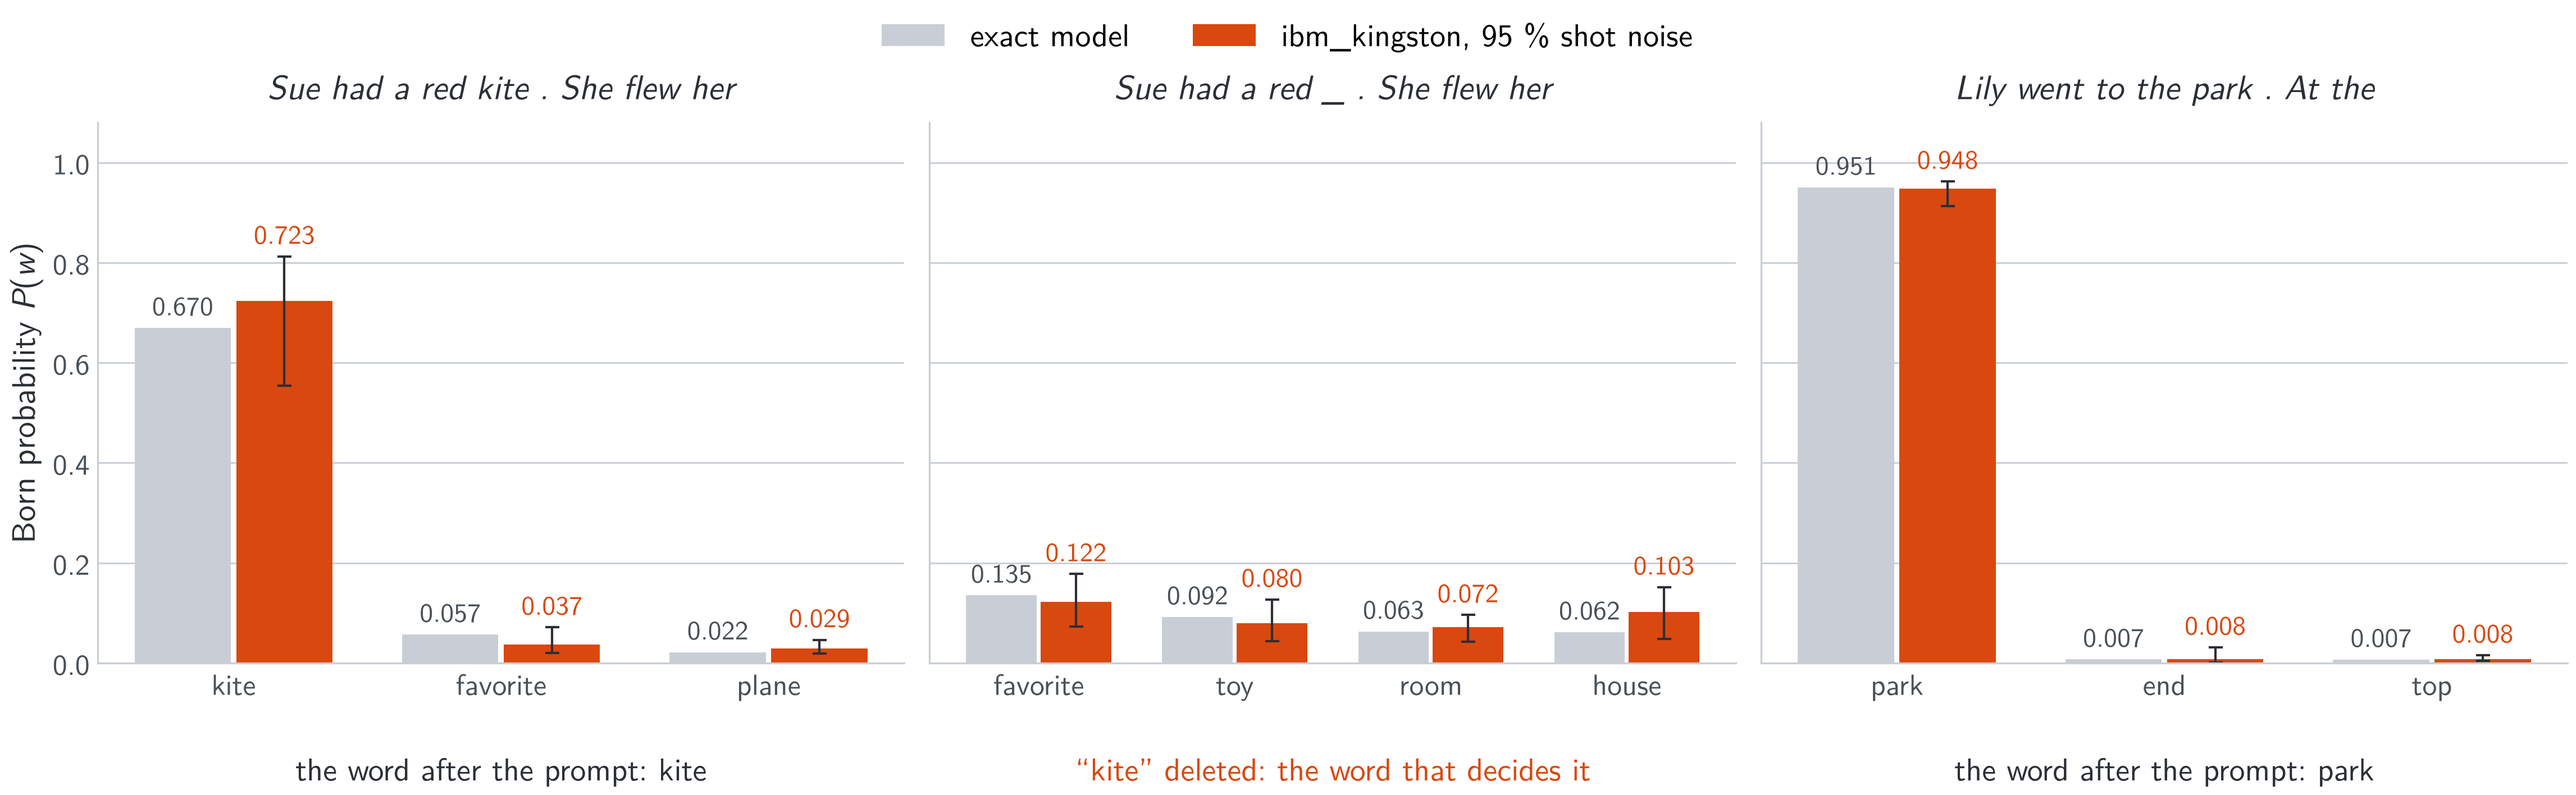
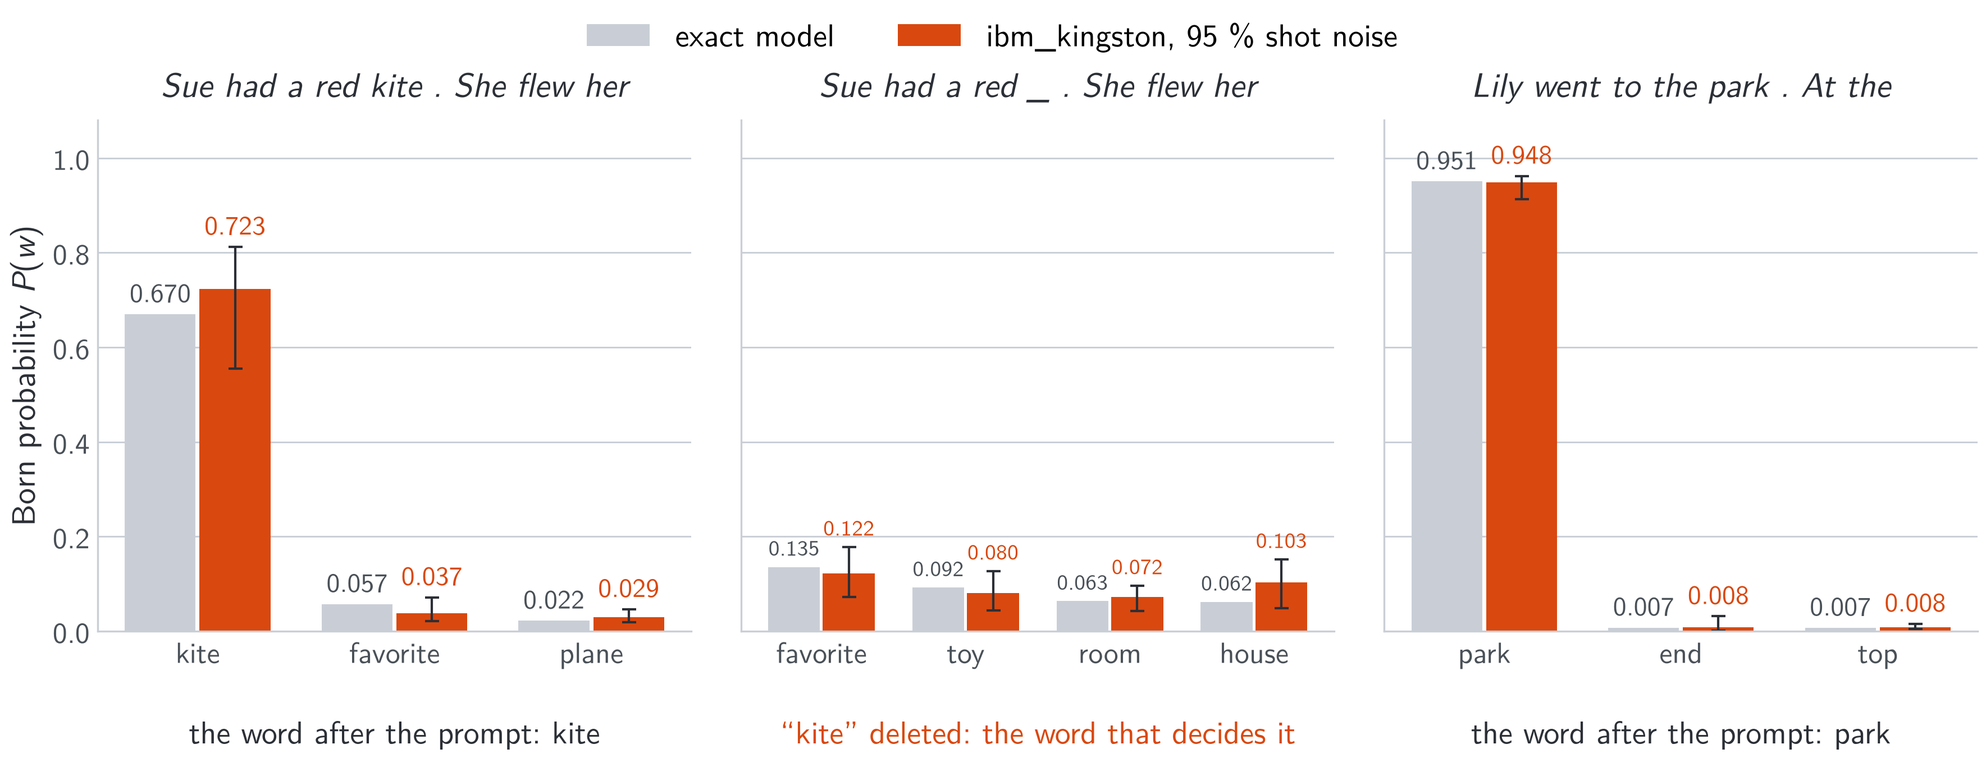
Figures: larger text, the park pixel marked, the ladder label off its line; figure scripts synced

diff --git a/src/fig_born_qubits.py b/src/fig_born_qubits.py
@@ -29,7 +29,7 @@ F = dict(emb="#f9dcdf", att="#fbe3c4", norm="#f3f5c6", ff="#cfe8f4", lin="#dcdcf
 
 fig = plt.figure(figsize=(17.5, 4.6))
 ax = fig.add_axes([0, 0, 1, 1])
-ax.set_xlim(-0.5, 35), ax.set_ylim(0.6, 8.9)
+ax.set_xlim(-0.5, 35), ax.set_ylim(0.3, 7.3)
 ax.axis("off")
 Y, BW, BH = 5.0, 4.3, 1.6
 
@@ -45,7 +45,7 @@ def meter(cx, cy, r=0.2):
     ax.plot([cx, cx + 0.62 * r], [cy, cy + 0.78 * r], color=ACCENT, lw=1.1, zorder=7)
 
 
-def box(x, kind, title, sub, meas=False, fs=16.5, sfs=15.0):
+def box(x, kind, title, sub, meas=False, fs=19, sfs=17):
     ax.add_patch(FancyBboxPatch((x - BW / 2 + 0.05, Y - BH / 2 - 0.07), BW, BH, boxstyle="round,pad=0,rounding_size=0.15",
                                 fc="#000000", alpha=0.07, ec="none", zorder=2))
     ax.add_patch(FancyBboxPatch((x - BW / 2, Y - BH / 2), BW, BH, boxstyle="round,pad=0,rounding_size=0.15",
@@ -58,7 +58,7 @@ def box(x, kind, title, sub, meas=False, fs=16.5, sfs=15.0):
 
 def note(x, text, how="classical"):
     color, weight = dict(device=(ACCENT, "bold"), light=(LIGHT, "bold"), classical=(MUTED, "normal"))[how]
-    ax.text(x, Y - BH / 2 - 0.45, text, ha="center", va="top", fontsize=14, linespacing=1.25, color=color,
+    ax.text(x, Y - BH / 2 - 0.45, text, ha="center", va="top", fontsize=16.5, linespacing=1.2, color=color,
             fontweight=weight)
 
 
@@ -66,26 +66,26 @@ XS = [2.55, 8.2, 14.55, 21.0, 26.45, 31.9]          # preparation, attention, fe
 L2 = XS[2] + BW / 2 + 0.6                             # the block's output joins the field
 ax.add_patch(FancyBboxPatch((XS[1] - BW / 2 - 0.35, Y - BH / 2 - 0.35), L2 + 0.4 - (XS[1] - BW / 2 - 0.35),
                             BH + 0.7, boxstyle="round,pad=0,rounding_size=0.25", fc=F["blk"], ec=INK, lw=1.1, zorder=1))
-ax.text(L2 + 0.4, Y + BH / 2 + 0.62, r"$\times 2$ blocks", ha="right", va="center", fontsize=16, color=INK)
-box(XS[0], "emb", "State preparation", "a word's amplitudes")
-box(XS[1], "att", "Hadamard tests", r"Re, Im $\langle q_i|k_j\rangle$, $+\,k_\mathrm{ref}$", meas=True)
-box(XS[2], "ff", "Balanced reading", r"$\Sigma_j\,$Re$[(W_jh)\overline{(V_jh)}]$", meas=True)
-box(XS[3], "lin", "Controller", r"$\psi=\Sigma_k A_ku\otimes B_ku$")
-box(XS[4], "lin", "One mask, 16 passes", r"$|1+g\,\psi/16|/M$", fs=15)
+ax.text(L2 + 0.4, Y + BH / 2 + 0.62, r"$\times 2$ blocks", ha="right", va="center", fontsize=17, color=INK)
+box(XS[0], "emb", "State preparation", "a word's amplitudes", fs=17.5, sfs=16)
+box(XS[1], "att", "Hadamard tests", r"Re, Im $\langle q_i|k_j\rangle$, $+\,k_\mathrm{ref}$", meas=True, sfs=15.5)
+box(XS[2], "ff", "Balanced reading", r"$\Sigma_j\,$Re$[(W_jh)\overline{(V_jh)}]$", meas=True, fs=17.5, sfs=15.5)
+box(XS[3], "lin", "Controller", r"$\psi=\Sigma_k A_ku\otimes B_ku$", sfs=15.5)
+box(XS[4], "lin", "Mask, 16 passes", r"$|1+g\,\psi/16|/M$", fs=18)
 box(XS[5], "out", "Camera", r"$|1+g\,\psi/16|^{32}$", meas=True)
 for a, b in ((XS[0] + BW / 2, XS[1] - BW / 2), (XS[1] + BW / 2, XS[2] - BW / 2), (XS[2] + BW / 2, L2 + 0.4),
              (L2 + 0.4, XS[3] - BW / 2), (XS[3] + BW / 2, XS[4] - BW / 2), (XS[4] + BW / 2, XS[5] - BW / 2)):
     arrow(a, b)
-ax.text(XS[0], Y + BH / 2 + 0.55, "Lily went to the park . At the", ha="center", va="center", fontsize=14.5,
+ax.text(XS[0], Y + BH / 2 + 0.55, "Lily went to the park . At the", ha="center", va="center", fontsize=16,
         style="italic", color=INK)
 arrow(XS[5] + BW / 2, XS[5] + BW / 2 + 0.45)
-ax.text(XS[5] + BW / 2 + 0.55, Y, r"$P(w)$", ha="left", va="center", fontsize=18, color=INK)
+ax.text(XS[5] + BW / 2 + 0.55, Y, r"$P(w)$", ha="left", va="center", fontsize=19, color=INK)
 # the word drawn goes back in: sample, append, repeat (as Fig. 1)
 yb, xl = Y - BH / 2 - 2.55, XS[0] - BW / 2 - 0.45      # under the notes, then up the left side into the input
 ax.plot([XS[5] + BW / 2 + 0.95, XS[5] + BW / 2 + 0.95, xl, xl], [Y - 0.3, yb, yb, Y], color=ACCENT, lw=1.1,
         ls=(0, (4, 2)), zorder=1)
 arrow(xl, XS[0] - BW / 2, color=ACCENT)
-ax.text((XS[0] + XS[5]) / 2, yb - 0.32, "sample, append, repeat", ha="center", va="center", fontsize=14,
+ax.text((XS[0] + XS[5]) / 2, yb - 0.32, "sample, append, repeat", ha="center", va="center", fontsize=16,
         color=ACCENT)
 ax.text(XS[1], Y + BH / 2 + 0.5, "run on ibm_kingston", ha="center", va="bottom", fontsize=14.5, color="white",
         fontweight="bold", zorder=8, bbox=dict(boxstyle="round,pad=0.25,rounding_size=0.12", fc=ACCENT, ec="none"))
@@ -98,8 +98,6 @@ note(XS[2], "the feed-forward,\nas compiled for light", how="light")
 note(XS[3], "computed classically: the\nrow sums of the measured\noverlaps, and the state $\\psi$")
 note(XS[4], "the 16-pass readout,\nas compiled for light", how="light")
 note(XS[5], "a photon lands on\nword $w$ with $P(w)$", how="light")
-ax.text(0.25, 8.45, "Writing Why on qubits and light", ha="left", va="center", fontsize=19, fontweight="bold", color=INK)
-ax.text(0.25, 7.7, SUB, ha="left", va="center", fontsize=14, color=MUTED, style="italic")
 for ext in ("png", "pdf"):
     fig.savefig(f"{out}.{ext}", dpi=300, bbox_inches="tight", pad_inches=0.05)
 print(f"wrote {out}.png / .pdf")

diff --git a/src/fig_overview.py b/src/fig_overview.py
@@ -89,7 +89,7 @@ dev_ideal, dev_meas = device_overlaps(JOB0)
 
 fig = plt.figure(figsize=(15.5, 10.2))
 W, Hf = fig.get_size_inches()
-HD, SUB, LAB = 16, 15, 14
+HD, SUB, LAB = 17, 16.5, 15.5                                       # printed at the text width: captions ~6.5 pt
 
 
 def axes(x, y, w, h, off=True):
@@ -177,11 +177,11 @@ ax = axes(0.248, ys, SW, SH, off=False)
 w = scores[1][0].mean(0).numpy()                                     # block 2, mean of heads, [L, L]
 wfull = np.concatenate([w, (1 - w.sum(-1))[:, None]], 1)             # the reference key takes the rest of each row
 ax.imshow(wfull, cmap=att_cmap, aspect="auto", interpolation="nearest")
-ax.set_xticks([]), ax.set_yticks(range(L), toks, fontsize=13, color=MUTED)
+ax.set_xticks([]), ax.set_yticks(range(L), toks, fontsize=14.5, color=MUTED)
 ax.tick_params(length=0, pad=2)
 [s.set_color(LINE) for s in ax.spines.values()]
-ax.text(L, -0.75, "ref", ha="center", va="bottom", fontsize=12, color=MUTED)
-head(ax, "Born\nattention", "$|\\langle q_i|k_j\\rangle|^2$ / row sum,\ncausal, + ref. key", above=0.1)
+ax.text(L, -0.75, "ref", ha="center", va="bottom", fontsize=13.5, color=MUTED)
+head(ax, "Born\nattention", "$|\\langle q_i|k_j\\rangle|^2$\n/ row sum", above=0.1)
 arrow(0.325, 0.34, ym)
 ax = axes(0.355, ys, SW, SH, off=False)
 m = u[0].numpy()
@@ -189,7 +189,7 @@ m = np.sign(m) * np.sqrt(np.abs(m))
 lim = np.percentile(np.abs(m), 99)
 ax.imshow(m, cmap=ev_cmap, norm=TwoSlopeNorm(0, -lim, lim), aspect="auto", interpolation="nearest")
 frame(ax)
-head(ax, "measured\nfeed-forward", "balanced:\nRe$[(W_jh)\\,\\overline{(V_jh)}]$", above=0.1)
+head(ax, "measured\nfeed-forward", "balanced\nreading", above=0.1)
 arrow(0.443, 0.457, ym)
 ax = axes(0.46, ys, 0.1, SH, off=False)
 I = inten[0, 0].numpy()
@@ -205,11 +205,11 @@ ax = axes(0.583, ys, 0.1, SH, off=False)
 ax.imshow(np.log10(np.maximum(I / I.max(), 1e-12)).reshape(64, 128), cmap=cam_cmap, vmin=-12, vmax=0, interpolation="nearest", aspect="auto")   # log: one word holds 95 % of the light
 frame(ax)
 kp = int(np.argmax(I))                                                # the brightest pixel: "park"
-ax.plot(kp % 128, kp // 128, "o", ms=9, mfc="none", mec="white", mew=1.6)
+ax.plot(kp % 128, kp // 128, "s", ms=6, mfc="none", mec="white", mew=1.4)
 assert kp == int(np.argmax(p)), "a pixel is a word id"
-ax.annotate(word(kp), (kp % 128, kp // 128), xytext=(-40, -16), textcoords="offset points",
-            color="white", fontsize=12, fontweight="bold")
-head(ax, "camera", "8,192 pixels, one a\nword (log scale)", above=0.1)
+ax.annotate(word(kp), (kp % 128, kp // 128), xytext=(kp % 128 - 22, 12), textcoords="data", ha="right", va="center",
+            color="white", fontsize=LAB, fontweight="bold", arrowprops=dict(arrowstyle="-|>", color="white", lw=1.2, shrinkA=1, shrinkB=3))
+head(ax, "camera", "8,192 pixels, one per\nword (log scale)", above=0.1)
 arrow(0.688, 0.7, ym)
 top3 = np.argsort(-p)[:3]
 ax = axes(0.745, ys + 0.02, 0.045, SH - 0.04, off=False)
@@ -252,10 +252,10 @@ for yw, x1 in ((4.6, 8.0), (2.2, 9.3)):
 ax.text(-0.2, 4.6, r"$|0\rangle$", ha="right", va="center", fontsize=SUB, color=INK)
 ax.text(-0.2, 2.2, "4", ha="right", va="center", fontsize=SUB, color=MUTED)
 ax.plot([0.3, 0.6], [2.0, 2.4], color=INK, lw=1.0)
-ax.add_patch(FancyBboxPatch((1.0, 1.3), 5.3, 4.1, boxstyle="round,pad=0,rounding_size=0.25", fc="#f9dcdf",
+ax.add_patch(FancyBboxPatch((0.75, 1.3), 5.65, 4.1, boxstyle="round,pad=0,rounding_size=0.25", fc="#f9dcdf",
                             ec=INK, lw=1.1, zorder=3))
-ax.text(3.65, 3.35, "prepare\n" + r"$|0\rangle|q_i\rangle+|1\rangle|k_j\rangle$", ha="center", va="center",
-        fontsize=LAB, color=INK, linespacing=1.3, zorder=4)
+ax.text(3.58, 3.35, "prepare\n" + r"$|0\rangle|q_i\rangle+|1\rangle|k_j\rangle$", ha="center", va="center",
+        fontsize=LAB - 1.5, color=INK, linespacing=1.4, zorder=4)
 ax.add_patch(Rectangle((6.6, 4.15), 0.9, 0.9, fc="white", ec=INK, lw=1.0, zorder=3))
 ax.text(7.05, 4.6, "H", ha="center", va="center", fontsize=LAB, fontweight="bold", color=INK, zorder=4)
 ax.add_patch(Rectangle((8.0, 4.05), 1.3, 1.1, fc="white", ec=ACCENT, lw=1.2, zorder=3))

diff --git a/src/fig_device.py b/src/fig_device.py
@@ -30,7 +30,7 @@ RUNS = [("Sue_had_a_red_kite_She_flew_her", "Sue had a red kite . She flew her",
          "“kite” deleted: the word that decides it", ACCENT),
         ("Lily_went_to_the_park_At_the", "Lily went to the park . At the", "the word after the prompt: park", INK)]
 
-fig, axs = plt.subplots(1, 3, figsize=(15.5, 4.6), sharey=True)
+fig, axs = plt.subplots(1, 3, figsize=(12.0, 4.4), sharey=True)   # printed at the text width: titles ~7 pt
 for ax, (slug, title, foot, fc) in zip(axs, RUNS):
     b = json.load(open(f"results/hw_word_bootstrap_{slug}_answer.json"))
     W = list(b["words"])[:4]
@@ -42,8 +42,9 @@ for ax, (slug, title, foot, fc) in zip(axs, RUNS):
     ax.bar(x + 0.19, dv, 0.36, color=ACCENT, label="ibm_kingston, 95 % shot noise",
            yerr=np.vstack([dv - ci[:, 0], ci[:, 1] - dv]).clip(min=0), ecolor=INK, error_kw=dict(lw=1.0, capsize=3))
     for k in range(len(W)):
-        ax.text(x[k] - 0.19, ex[k] + 0.015, f"{ex[k]:.3f}", ha="center", va="bottom", fontsize=11.5, color=MUTED)
-        ax.text(x[k] + 0.19, ci[k, 1] + 0.015, f"{dv[k]:.3f}", ha="center", va="bottom", fontsize=11.5, color=ACCENT)
+        fsz = 9.5 if len(W) > 3 else 11.5                    # four words in a panel: smaller, still centred
+        ax.text(x[k] - 0.19, ex[k] + 0.015, f"{ex[k]:.3f}", ha="center", va="bottom", fontsize=fsz, color=MUTED)
+        ax.text(x[k] + 0.19, ci[k, 1] + 0.015, f"{dv[k]:.3f}", ha="center", va="bottom", fontsize=fsz, color=ACCENT)
     ax.set_xticks(x, W, fontsize=13.5, color=INK)
     ax.set_ylim(0, 1.08)
     ax.grid(axis="y", color=LINE, lw=0.7)

diff --git a/src/fig_ladder.py b/src/fig_ladder.py
@@ -45,8 +45,9 @@ for ax, key, lab, scale in ((axs[0], "test_acc", "test accuracy (%)", 100), (axs
     ax.plot([0.82], [plain[key] * scale], "o", ms=6, mfc="white", mec=ACCENT, mew=1.5, zorder=5)
     sm = np.mean([r[key] for r in soft]) * scale
     ax.axhline(sm, color=MUTED, lw=1.1, ls=(0, (4, 3)), zorder=2)
-    ax.text(16, sm, "softmax transformer, same size", ha="right", va="bottom" if key == "test_acc" else "top",
-            fontsize=7.5, color=MUTED)
+    ax.annotate("softmax transformer, same size", (16, sm), xytext=(0, 3 if key == "test_acc" else -3),
+                textcoords="offset points", ha="right", va="bottom" if key == "test_acc" else "top", fontsize=7.5,
+                color=MUTED, bbox=dict(fc="white", ec="none", pad=0.6))   # off the dashed line
     lm = np.mean([r[key] for r in linhead]) * scale
     ax.axhline(lm, color=MUTED, lw=1.0, ls=(0, (1, 2)), zorder=2)
     ax.text(1, lm, "same body, linear head", ha="left", va="bottom" if key == "test_acc" else "top", fontsize=7.5,
